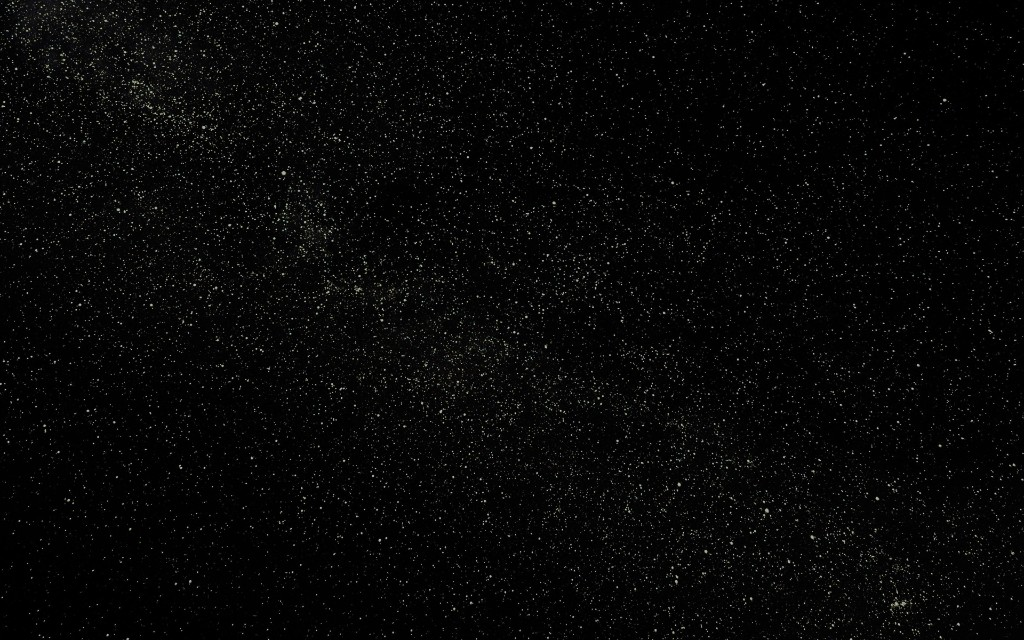
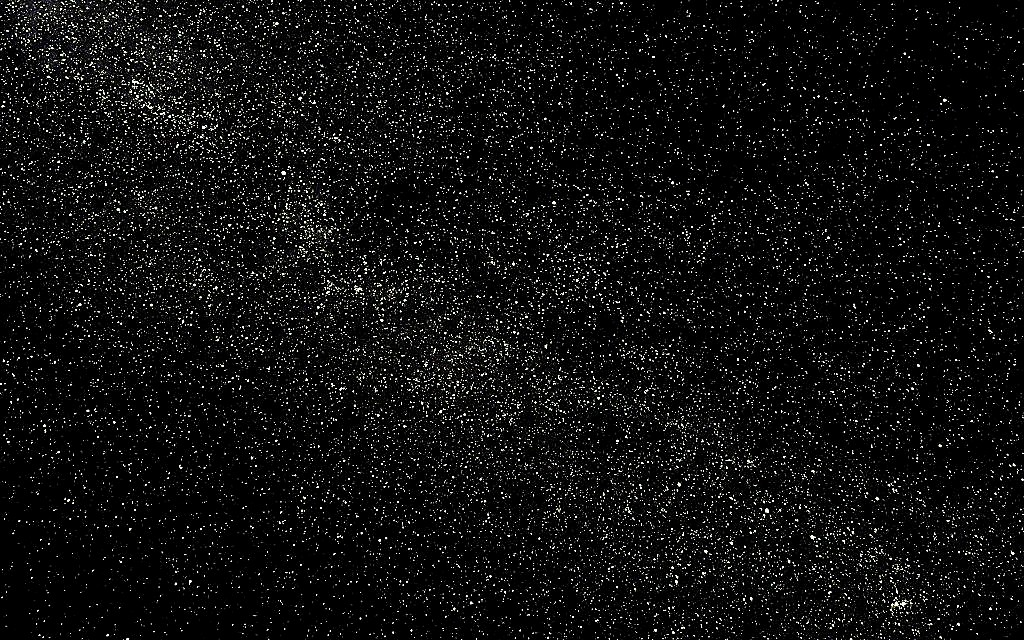
Make the starfield backdrop visible against the void.
Raise backdrop opacity and boost star contrast so the dark field still reads at garden opacity.

diff --git a/css/base.css b/css/base.css
@@ -72,7 +72,7 @@ body.garden-ready::before {
         url('../assets/img/backgrounds/bkgrnd.webp') type('image/webp'),
         url('../assets/img/backgrounds/bkgrnd.jpg') type('image/jpeg')
     );
-    opacity: 0.02;
+    opacity: 0.22;
 }
 
 body.garden-ready::before {
